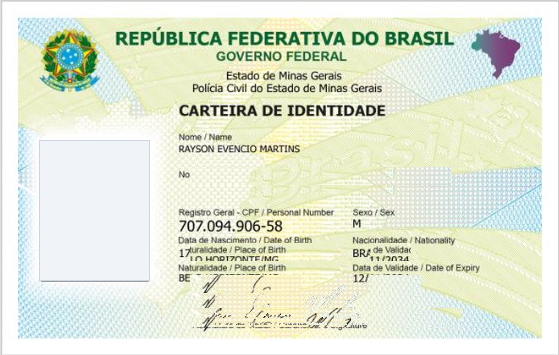
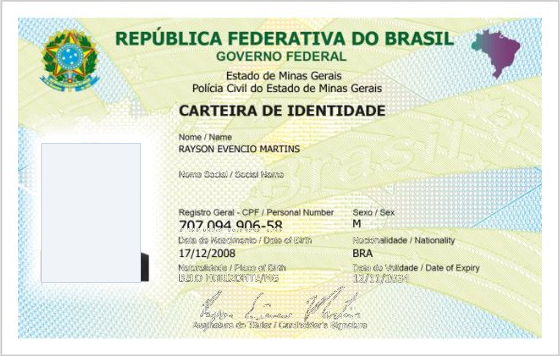
fix: remover textos sobrepostos e ajustar proporções e enquadramento exato do layout oficial e QR code

diff --git a/criar-rg.html b/criar-rg.html
@@ -487,9 +487,9 @@
         .composite-card-frame {
             margin-left: 26px;
             margin-top: 28px;
-            width: 559px;
-            height: 355px;
-            border: 1px solid #d1d5db;
+            width: 560px;
+            height: 356px;
+            border: 1px solid #c4c7c5;
             border-radius: 4px;
             box-sizing: border-box;
             overflow: hidden;
@@ -510,10 +510,10 @@
 
         #compPhoto {
             position: absolute;
-            top: 140px;
-            left: 39px;
-            width: 110px;
-            height: 140px;
+            top: 143px;
+            left: 41px;
+            width: 99px;
+            height: 139px;
             object-fit: cover;
             z-index: 5;
             border: 1px solid #cbd5e1;
@@ -521,8 +521,9 @@
         }
 
         #compHeaderUf {
+            display: none;
             position: absolute;
-            top: 45px;
+            top: 38px;
             left: 120px;
             width: 360px;
             text-align: center;
@@ -537,8 +538,9 @@
         }
 
         #compHeaderSsp {
+            display: none;
             position: absolute;
-            top: 58px;
+            top: 50px;
             left: 120px;
             width: 360px;
             text-align: center;
@@ -565,93 +567,93 @@
         }
 
         #compNome {
-            top: 167px;
-            left: 194px;
+            top: 161px;
+            left: 183px;
             width: 350px;
             font-size: 13px;
             font-weight: 800;
-            letter-spacing: 0.2px;
+            letter-spacing: 0.15px;
         }
 
         #compNomeSocial {
-            top: 204px;
-            left: 194px;
+            top: 198px;
+            left: 183px;
             width: 350px;
             font-size: 12.5px;
             font-weight: 700;
         }
 
         #compCpf {
-            top: 243px;
-            left: 194px;
-            width: 175px;
-            font-size: 14px;
+            top: 233px;
+            left: 183px;
+            width: 160px;
+            font-size: 13.5px;
             font-weight: 800;
-            letter-spacing: 0.2px;
+            letter-spacing: 0.15px;
         }
 
         #compSexo {
-            top: 243px;
-            left: 375px;
-            width: 80px;
+            top: 233px;
+            left: 354px;
+            width: 60px;
             font-size: 13px;
             font-weight: 800;
         }
 
         #compNasc {
-            top: 275px;
-            left: 194px;
-            width: 175px;
+            top: 266px;
+            left: 183px;
+            width: 160px;
             font-size: 12px;
             font-weight: 700;
         }
 
         #compNac {
-            top: 275px;
-            left: 375px;
-            width: 80px;
+            top: 266px;
+            left: 354px;
+            width: 60px;
             font-size: 12px;
             font-weight: 700;
         }
 
         #compNat {
-            top: 308px;
-            left: 194px;
-            width: 175px;
+            top: 302px;
+            left: 183px;
+            width: 160px;
             font-size: 11.5px;
             font-weight: 700;
             text-transform: uppercase;
         }
 
         #compVal {
-            top: 308px;
-            left: 375px;
-            width: 120px;
+            top: 302px;
+            left: 354px;
+            width: 110px;
             font-size: 11.5px;
             font-weight: 700;
         }
 
         #compSigBox {
             position: absolute;
-            top: 274px;
-            left: 195px;
-            width: 215px;
-            height: 54px;
+            top: 270px;
+            left: 191px;
+            width: 216px;
+            height: 58px;
             display: flex;
-            align-items: center;
-            justify-content: center;
+            align-items: flex-end;
+            justify-content: flex-start;
             z-index: 5;
         }
 
         #compSigImg {
-            max-width: 100%;
-            max-height: 100%;
+            max-width: 216px;
+            max-height: 52px;
             object-fit: contain;
         }
 
         #compSigText {
             font-family: 'Homemade Apple', cursive;
-            font-size: 20px;
+            font-size: 18px;
             color: #000000;
             font-weight: 600;
             line-height: 1;
@@ -659,7 +661,7 @@
         }
 
         .composite-qr-col {
-            margin-left: 38px;
+            margin-left: 37px;
             margin-top: 9px;
             width: 326px;
             display: flex;
@@ -672,7 +674,7 @@
             width: 100%;
             text-align: left;
             font-family: Arial, "Helvetica Neue", Helvetica, sans-serif;
-            font-size: 16px;
+            font-size: 15px;
             font-weight: 800;
             color: #000000;
             margin-bottom: 5px;
@@ -682,36 +684,41 @@
         .comp-qr-box {
             width: 326px;
             height: 315px;
-            border: 1px solid #d1d5db;
+            border: 1px solid #c4c7c5;
             background: #ffffff;
             box-sizing: border-box;
             display: flex;
             align-items: center;
             justify-content: center;
+            flex-shrink: 0;
         }
 
         #compQrInner {
-            width: 100%;
-            height: 100%;
+            width: 224px;
+            height: 224px;
             display: flex;
             align-items: center;
             justify-content: center;
         }
 
         #compQrImg {
-            width: 224px;
-            height: 224px;
+            width: 224px !important;
+            height: 224px !important;
+            max-width: 224px !important;
+            max-height: 224px !important;
             object-fit: contain;
+            display: block;
         }
 
         .comp-qr-caption {
-            margin-top: 19px;
+            margin-top: 18px;
             font-family: Arial, "Helvetica Neue", Helvetica, sans-serif;
-            font-size: 13.5px;
+            font-size: 13px;
             font-weight: 500;
             color: #000000;
             text-align: center;
             line-height: 1.35;
+            letter-spacing: -0.1px;
             white-space: nowrap;
         }
         #viewFrenteContainer {
@@ -1147,9 +1154,9 @@
                                 <!-- Foto 3x4 Oficial -->
                                 <img id="compPhoto" src="assets/rayson_foto.png" alt="Foto">
 
-                                <!-- Cabeçalho Estado e Órgão -->
-                                <div id="compHeaderUf" class="comp-field-header">Estado de Minas Gerais</div>
-                                <div id="compHeaderSsp" class="comp-field-header-sub">Polícia Civil do Estado de Minas Gerais</div>
+                                <!-- Cabeçalho Estado e Órgão (já gravados no guilhoche oficial) -->
+                                <div id="compHeaderUf" class="comp-field-header" style="display:none;"></div>
+                                <div id="compHeaderSsp" class="comp-field-header-sub" style="display:none;"></div>
 
                                 <!-- Campos Textuais sobre o Guilhoche Oficial -->
                                 <div class="comp-dyn-field" id="compNome">RAYSON EVENCIO MARTINS</div>
@@ -1174,7 +1181,7 @@
                             <div class="comp-qr-title">QR Code</div>
                             <div class="comp-qr-box">
                                 <div id="compQrInner">
-                                    <img id="compQrImg" src="assets/rayson_qr_vio.png" alt="QR Code Vio">
+                                    <img id="compQrImg" src="assets/rayson_qr_vio.png" alt="QR Code Vio" style="width:224px; height:224px; object-fit:contain; display:block;">
                                 </div>
                             </div>
                             <div class="comp-qr-caption">
@@ -1408,10 +1415,24 @@ M E L L Y S S A &lt; D E &lt; J E S U S &lt; M E N I N O &lt; &lt; &lt; &lt; &lt
             if (cVal) cVal.textContent = val;
 
             const cUf = document.getElementById('compHeaderUf');
-            if (cUf) cUf.textContent = local;
+            if (cUf) {
+                if (local && !local.includes('Minas Gerais')) {
+                    cUf.textContent = local;
+                    cUf.style.display = 'block';
+                } else {
+                    cUf.style.display = 'none';
+                }
+            }
 
             const cSsp = document.getElementById('compHeaderSsp');
-            if (cSsp) cSsp.textContent = orgao;
+            if (cSsp) {
+                if (orgao && !orgao.includes('Civil do Estado de Minas Gerais')) {
+                    cSsp.textContent = orgao;
+                    cSsp.style.display = 'block';
+                } else {
+                    cSsp.style.display = 'none';
+                }
+            }
 
             // QR Code do Documento Oficial
             renderQrOficial(cpf, nome);
@@ -1495,7 +1516,7 @@ M E L L Y S S A &lt; D E &lt; J E S U S &lt; M E N I N O &lt; &lt; &lt; &lt; &lt
             if (!inner) return;
             const cleanCpf = (cpf || '').replace(/\D/g, '');
             if (cleanCpf === '70709490658') {
-                inner.innerHTML = '<img id="compQrImg" src="assets/rayson_qr_vio.png" alt="QR Code Vio" style="width:100%; height:100%; object-fit:contain;">';
+                inner.innerHTML = '<img id="compQrImg" src="assets/rayson_qr_vio.png" alt="QR Code Vio" style="width:224px; height:224px; object-fit:contain; display:block;">';
                 return;
             }
             const qrUrl = `https://servicos.serpro.gov.br/vio/?d=${cleanCpf}&t=CIN&auth=1`;
@@ -1503,8 +1524,8 @@ M E L L Y S S A &lt; D E &lt; J E S U S &lt; M E N I N O &lt; &lt; &lt; &lt; &lt
             if (window.QRCode) {
                 new QRCode(inner, {
                     text: qrUrl,
-                    width: 285,
-                    height: 285,
+                    width: 224,
+                    height: 224,
                     colorDark: '#000000',
                     colorLight: '#ffffff',
                     correctLevel: QRCode.CorrectLevel.M
